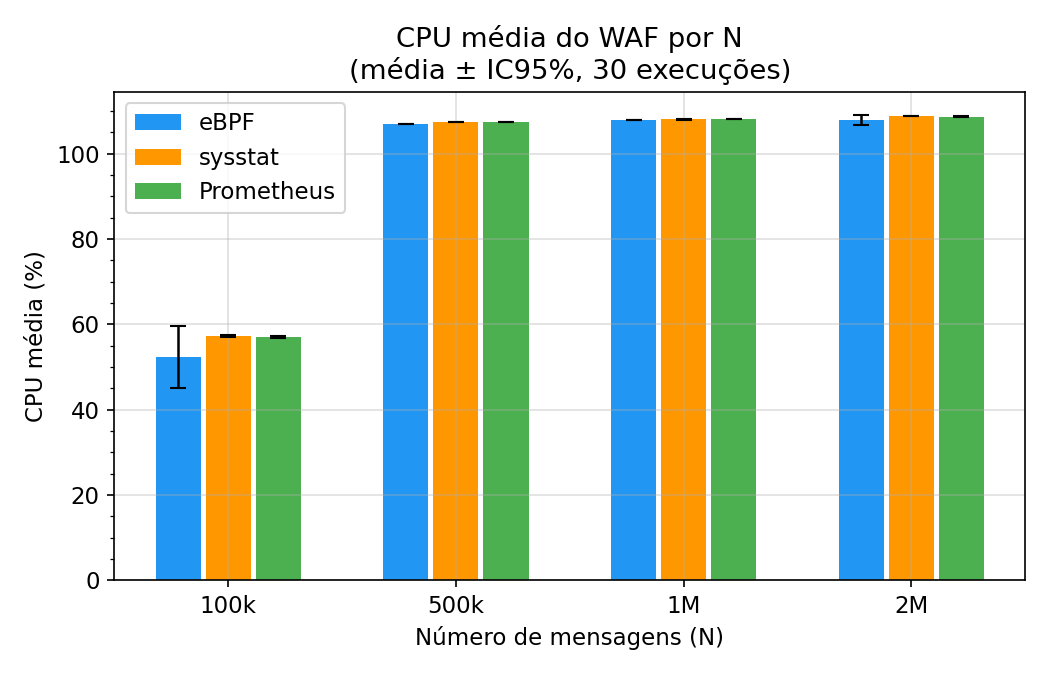
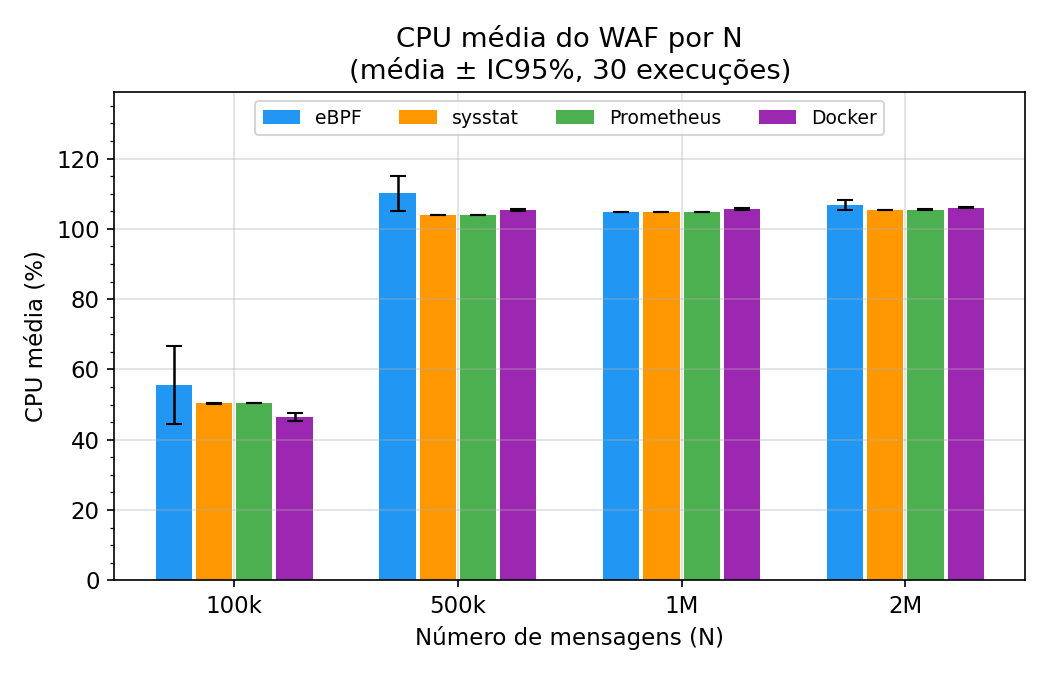
docs: resultados, considerações finais, resumo e abstract com as quatro ferramentas

diff --git a/docs/capítulos/2.Metodologia.tex b/docs/capítulos/2.Metodologia.tex
@@ -9,6 +9,7 @@ Esta pesquisa é classificada como \textbf{aplicada}, pois tem como finalidade g
 
 
 \section{Contexto Experimental}
+\label{sec:ambiente}
 
 As VNFs voltadas para a segurança, como os WAF e os IDS, são os elementos mais beneficiados pelo uso do eBPF \cite{technologies12080122}. Em um WAF tradicional, a análise de pacotes exige que todo o tráfego passe por validações de assinaturas no espaço do usuário, sobrecarregando a CPU sob ataques DDoS, por exemplo.
 
@@ -29,7 +30,6 @@ Os experimentos foram conduzidos em uma máquina física com processador AMD Ryz
 \textbf{Componente} & \textbf{Versão / Origem} \\
 \hline
 Kernel Linux (host e contêineres) & 7.0.0-38-\textit{generic} (Ubuntu 26.04 LTS; compartilhado por todos os contêineres Docker) \\
-% TODO: reconferir as versões de Python, libbpf e clang dentro das imagens reconstruídas (após o fim da coleta)
 Python, observadores e WAF & 3.12.3 (\texttt{ubuntu:24.04}) \\
 Python, cliente           & 3.9 (\texttt{python:3.9-slim}) \\
 libbpf                     & 1.3.0 (\texttt{libbpf1} 1:1.3.0-2build2, repositório Ubuntu 24.04) \\
@@ -97,6 +97,7 @@ Duas métricas não seguem a lógica do Docker. Primeiro, os bytes RX/TX são li
 O código-fonte dos quatro coletores, da geração de carga e da análise estatística está disponível publicamente no GitHub\footnote{https://github.com/joaopedroplinta/vnf-monitoring-benchmark}.
 
 \section{Protocolo de Testes e Geração de Carga}
+\label{sec:protocolo}
 
 Neste experimento, o volume de mensagens N constitui a variável independente, assumindo quatro níveis: 100.000, 500.000, 1.000.000 e 2.000.000. A variável dependente primária é o tempo de resposta do observador (RTT UDP); CPU e memória do WAF e do coletor são variáveis dependentes secundárias, utilizadas para caracterizar a sobrecarga de cada abordagem.
 
@@ -109,7 +110,7 @@ As cargas são geradas previamente pelo script \texttt{gen\_payloads.py}, que pr
 
 O divisor 15.000 corresponde à taxa de vazão sustentada empiricamente pelas 200 corrotinas assíncronas no ambiente de testes, expressa em mensagens por segundo; os 20 segundos adicionais constituem uma margem de segurança para a inicialização e o encerramento dos contêineres. Esse valor garante que o cliente complete o envio de todas as cargas e que o observador capture amostras suficientes para a análise. Para cada combinação de coletor e volume N, foram realizadas \textbf{30 repetições} independentes, totalizando 480 execuções (4 coletores $\times$ 4 volumes $\times$ 30 repetições). Cada repetição executa o ciclo completo: inicialização dos contêineres, aquecimento do observador, coleta de dados e encerramento controlado via \texttt{docker compose down}.
 
-Em cinco das 360 execuções, verificou-se \texttt{inspect\_count = 0} e \texttt{inspect\_avg\_ms = 0}, causados por uma condição de execução na leitura do arquivo \texttt{waf\_metrics.json}: o \texttt{probe.py} encerrou a coleta antes de o WAF gravar o arquivo pela primeira vez naquela execução. O critério adotado foi o seguinte: como a condição de execução afeta exclusivamente a leitura do arquivo \texttt{waf\_metrics.json} e não o mecanismo de requisição UDP, as medições de tempo de resposta UDP dessas execuções são válidas e estão incluídas nas agregações da métrica primária, preservando o tamanho amostral de 30 repetições para essa métrica; as métricas de inspeção (\texttt{inspect\_count}, \texttt{inspect\_avg\_ms}, \texttt{inspect\_min\_ms}, \texttt{inspect\_max\_ms}) dessas cinco execuções, cujos valores são zero por definição e não refletem o comportamento real do WAF, são desconsideradas nas análises de inspeção do WAF para não distorcer as médias.
+Em 106 das 480 execuções (22\%), todas com $N \geq 500$ mil e distribuídas de forma semelhante entre os coletores (de 23 a 30 execuções por coletor), o resumo da execução registrou \texttt{inspect\_count = 0} e \texttt{inspect\_avg\_ms = 0}. A causa provável é uma condição de execução na leitura do arquivo \texttt{waf\_metrics.json}: o WAF o grava diretamente, sem escrita atômica, e o observador, ao lê-lo no instante da gravação, obtém um conteúdo incompleto e devolve zeros. Nas amostras individuais, 27\% (10.152 de 38.160) apresentaram o mesmo valor nulo, intercaladas com amostras válidas, o que é compatível com essa explicação, embora ela não tenha sido verificada isoladamente. Como o resumo adota a última amostra da execução, o zero a contamina sempre que coincide com ela. O critério adotado foi o seguinte: como a condição afeta exclusivamente a leitura do arquivo \texttt{waf\_metrics.json} e não o mecanismo de requisição UDP, as medições de tempo de resposta, de CPU e de memória dessas execuções são válidas e estão incluídas nas agregações, preservando o tamanho amostral de 30 repetições; os campos de inspeção do resumo foram recalculados a partir da última amostra com \texttt{inspect\_count} maior que zero (\texttt{scripts/fix\_inspect.py}), o que foi possível em todas as 480 execuções, e as amostras brutas foram mantidas inalteradas. Como a condição ocorre em todos os coletores, ela não enviesa a comparação entre eles.
 
 \section{Métricas Coletadas e Análise Estatística}
 

diff --git a/docs/main.tex b/docs/main.tex
@@ -95,30 +95,25 @@
 %   \end{flushright}
 % \end{epigrafe}
 
-% --- Resumo em português --- (pendente: escrever após Desenvolvimento)
-% \begin{resumo}
-%   Conter de 150 e 500 palavras, em parágrafo único com espaçamento simples,
-%   tamanho 12, sem recuo na primeira linha. Deve-se ressaltar sucintamente o
-%   conteúdo de um texto: os objetivos, os métodos empregados, os resultados
-%   preliminares e as conclusões. Recomenda-se para documento técnico e científico
-%   o resumo informativo.
-%
-%   \vspace{\onelineskip}
-%   \noindent
-%   \textbf{Palavras-chave}: palavra 1; palavra 2; palavra 3; palavra 4; palavra 5.
-% \end{resumo}
+% --- Resumo em português ---
+\begin{resumo}
+  A virtualização de funções de rede (NFV) exige monitoramento contínuo das funções virtualizadas (VNFs), mas o próprio coletor consome recursos do mesmo \textit{host} e pode degradar o serviço monitorado. Este trabalho compara o custo de quatro abordagens de monitoramento de um \textit{Web Application Firewall} (WAF) simplificado: eBPF (libbpf com CO-RE), Sysstat (leitura de \texttt{/proc} e \texttt{psutil}), Prometheus e API do Docker (estatísticas de \textit{cgroups}). Cada coletor foi executado em contêineres com a mesma topologia e carga, em quatro volumes de mensagens (100 mil a 2 milhões), com 30 repetições por combinação, totalizando 480 execuções. A métrica primária foi o tempo de resposta do observador (RTT UDP), complementada pelo consumo de CPU e de memória, com intervalos de confiança de 95\%. O eBPF apresentou o menor tempo de resposta em todos os volumes, cerca de 13\% abaixo do Sysstat, 15\% abaixo do Prometheus e 80\% abaixo da API do Docker, com diferenças estatisticamente significativas; a diferença para Sysstat e Prometheus, porém, é de magnitude moderada. Nenhuma abordagem alterou perceptivelmente a CPU do WAF, e a CPU do observador foi inconclusiva. O Sysstat teve o menor consumo de memória, e a API do Docker, o maior. Os resultados sustentam a hipótese de menor sobrecarga do eBPF no tempo de resposta e indicam que a escolha da ferramenta deve ponderar a complexidade de implementação.
 
-% --- Abstract (resumo em inglês) --- (pendente)
-% \begin{resumo}[Abstract]
-%   \begin{otherlanguage*}{english}
-%     Mandatory element, written preferably in English. It must contain the same
-%     information as the Portuguese abstract, including keywords.
-%
-%     \vspace{\onelineskip}
-%     \noindent
-%     \textbf{Keywords}: word 1; word 2; word 3; word 4; word 5.
-%   \end{otherlanguage*}
-% \end{resumo}
+  \vspace{\onelineskip}
+  \noindent
+  \textbf{Palavras-chave}: eBPF; monitoramento de redes; NFV; sobrecarga; Docker.
+\end{resumo}
+
+% --- Abstract (resumo em inglês) ---
+\begin{resumo}[Abstract]
+  \begin{otherlanguage*}{english}
+    Network Functions Virtualization (NFV) requires continuous monitoring of virtualized network functions (VNFs), but the collector itself consumes resources on the same host and may degrade the monitored service. This work compares the cost of four approaches to monitoring a simplified Web Application Firewall (WAF): eBPF (libbpf with CO-RE), Sysstat (\texttt{/proc} and \texttt{psutil}), Prometheus, and the Docker API (cgroup statistics). Each collector ran in containers with the same topology and workload, at four message volumes (100 thousand to 2 million), with 30 repetitions per combination, for a total of 480 runs. The primary metric was the observer response time (UDP RTT), complemented by CPU and memory consumption, with 95\% confidence intervals. eBPF showed the lowest response time at every volume, about 13\% below Sysstat, 15\% below Prometheus and 80\% below the Docker API, with statistically significant differences; the gap to Sysstat and Prometheus, however, is moderate in magnitude. No approach noticeably changed the WAF CPU usage, and the observer CPU was inconclusive. Sysstat had the lowest memory footprint and the Docker API the highest. The results support the hypothesis that eBPF has lower response-time overhead and indicate that tool choice should weigh implementation complexity.
+
+    \vspace{\onelineskip}
+    \noindent
+    \textbf{Keywords}: eBPF; network monitoring; NFV; overhead; Docker.
+  \end{otherlanguage*}
+\end{resumo}
 
 % --- Lista de Figuras (a partir de 5 figuras) ---
 \pdfbookmark[0]{\listfigurename}{lof}
@@ -177,8 +172,7 @@
 \input{capítulos/1.RevisãoDaLiteratura}
 \input{capítulos/2.Metodologia}
 \input{capítulos/3.Resultados}
-%\input{capítulos/3.ValidaçãoExperimental}
-%\input{capítulos/4.ConsideraçõesFinais}
+\input{capítulos/4.ConsideraçõesFinais}
 
 % ================================================================
 % ELEMENTOS PÓS-TEXTUAIS

diff --git a/docs/capítulos/4.ConsideraçõesFinais.tex b/docs/capítulos/4.ConsideraçõesFinais.tex
@@ -1,2 +1,29 @@
 \chapter{Considerações Finais}
+\label{chap:consideracoes_finais}
 
+Este trabalho comparou o custo de monitoramento de uma função de rede virtualizada (um WAF simplificado) por quatro abordagens: eBPF (libbpf com CO-RE), Sysstat (leitura de \texttt{/proc} e \texttt{psutil}), Prometheus (a mesma coleta acrescida de um \textit{endpoint} HTTP) e a API do Docker (estatísticas de \textit{cgroups} obtidas pelo SDK Python). A métrica primária foi o tempo de resposta do observador (RTT UDP), complementada pelo consumo de CPU e de memória do WAF e do próprio coletor. Foram realizadas 480 execuções (quatro coletores, quatro volumes de mensagens, 30 repetições cada), com intervalos de confiança de 95\% pela distribuição \textit{t} de Student.
+
+\section{Conclusões}
+
+O eBPF apresentou o menor tempo de resposta em todos os volumes, com intervalos de confiança que não se sobrepõem aos das demais ferramentas: cerca de 13\% a menos que o Sysstat, 15\% a menos que o Prometheus e 80\% a menos que a API do Docker. A hipótese formulada, de que o eBPF apresenta menor sobrecarga de monitoramento que as abordagens em espaço de usuário, foi confirmada para a métrica primária. A diferença para Sysstat e Prometheus, embora consistente, é de magnitude moderada (da ordem de $0{,}08$ a $0{,}09$ ms); entre o Sysstat e o Prometheus a diferença é ainda menor (cerca de 2\%), mas também consistente. A API do Docker apresentou tempo de resposta de cerca de $2{,}5$ ms, aproximadamente cinco vezes o do eBPF, coerente com o fato de que cada requisição envolve a consulta ao \textit{daemon} do Docker.
+
+Quanto ao consumo de recursos, nenhuma abordagem alterou de forma perceptível a CPU do WAF. Na memória do observador, o Sysstat foi o mais econômico ($\sim$14 MB), seguido do eBPF ($\sim$15 MB), do Prometheus ($\sim$25 MB) e da API do Docker ($\sim$31 MB). A CPU do próprio observador não permitiu conclusões, devido à baixa magnitude e à alta variabilidade entre as execuções.
+
+Em termos de escolha, os resultados sugerem que o ganho de tempo de resposta do eBPF sobre o \textit{polling} em espaço de usuário é real, porém pequeno em termos absolutos, e precisa ser ponderado frente à maior complexidade de implementação (programa em C, compilação, privilégios no \textit{kernel}). A API do Docker oferece a vantagem de operar sem privilégios no \textit{kernel} e de expor as métricas por contêiner, ao custo de maior tempo de resposta e de maior consumo de memória do coletor.
+
+\section{Limitações}
+
+Os resultados devem ser lidos com as seguintes ressalvas, além das limitações da metodologia (Capítulo~\ref{chap:metodologia}):
+
+\begin{itemize}
+  \item o tempo de resposta do Docker inclui a consulta ao \textit{daemon} a cada requisição UDP; a decomposição desse tempo entre as etapas da cadeia não foi medida, e a alternativa de consultar o \textit{daemon} em segundo plano não foi avaliada;
+  \item a memória e a CPU do WAF no cenário Docker provêm da contabilidade do \textit{cgroup}, e não do processo, portanto não são diretamente comparáveis às dos demais cenários;
+  \item a CPU do observador é muito ruidosa e não sustenta comparação quantitativa;
+  \item 22\% das execuções tiveram o resumo das métricas de inspeção zerado por uma condição de execução na leitura de \texttt{waf\_metrics.json}; os campos foram recalculados a partir das amostras (Seção~\ref{sec:protocolo}), e a correção do código do WAF não foi aplicada aos dados coletados;
+  \item a contagem de inspeções ao fim da janela de coleta ficou abaixo de $N$ nos volumes maiores, o que indica que a premissa de vazão usada para dimensionar a janela deve ser reavaliada;
+  \item os experimentos foram conduzidos em uma única máquina e com um único WAF simplificado, de modo que a generalização para outros ambientes e outras VNFs não está assegurada.
+\end{itemize}
+
+\section{Trabalhos Futuros}
+
+Como continuidade, propõem-se: (i) decompor o tempo de resposta do coletor Docker, comparando a consulta via API com a leitura direta dos arquivos de \textit{cgroup} e com uma coleta em segundo plano; (ii) corrigir a escrita do arquivo de métricas do WAF e repetir a coleta; (iii) avaliar o efeito do monitoramento sobre a vazão e a latência das requisições processadas pelo próprio WAF; e (iv) estender a comparação a outras VNFs e a ambientes com mais de um contêiner monitorado.

diff --git a/docs/capítulos/0.Introdução.tex b/docs/capítulos/0.Introdução.tex
@@ -6,7 +6,7 @@ O monitoramento das VNFs pode consistir nas métricas de consumo de CPU, memóri
 
 O presente trabalho propõe uma análise comparativa de desempenho entre essas quatro tecnologias de monitoramento, com o objetivo de verificar qual apresenta maior eficiência em termos de tempo de resposta na coleta de métricas e possíveis sobrecargas em uma VNF. A relevância desta pesquisa fundamenta-se na necessidade de compreender as diferenças práticas entre as abordagens \textit{kernel-level} e \textit{user-level} \cite{linux_bpf_docs}, considerando que a escolha da ferramenta adequada pode impactar significativamente o desempenho de sistemas virtualizados \cite{10.1145/3397022}.
 
-A estrutura deste trabalho segue com a revisão da literatura no Capítulo \ref{chap:revisao_literatura}, abordando os conceitos teóricos sobre a NFV e as ferramentas aqui consideradas, seguida pela metodologia proposta, Capítulo \ref{chap:metodologia}, para os experimentos e os resultados preliminares obtidos até o momento no Capítulo \ref{chap:resultados}. Na sequência, são apresentados os resultados obtidos e a análise quantitativa do experimento de validação. Por fim, são discutidas as conclusões e as contribuições do trabalho para a área de gerenciamento e monitoramento de redes virtualizadas.
+A estrutura deste trabalho segue com a revisão da literatura no Capítulo \ref{chap:revisao_literatura}, abordando os conceitos teóricos sobre a NFV e as ferramentas aqui consideradas, seguida pela metodologia proposta, Capítulo \ref{chap:metodologia}, para os experimentos. No Capítulo \ref{chap:resultados} são apresentados os resultados obtidos e a análise quantitativa das 480 execuções. Por fim, no Capítulo \ref{chap:consideracoes_finais}, são discutidas as conclusões, as limitações e as contribuições do trabalho para a área de gerenciamento e monitoramento de redes virtualizadas.
 
 
 % ----
